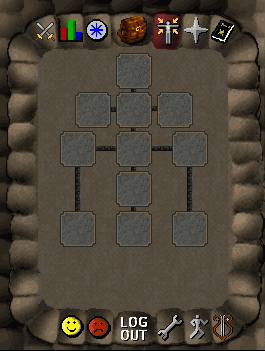
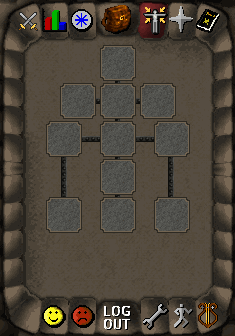
feat: update equipment interface to 244

diff --git a/js/equipment_interface.js b/js/equipment_interface.js
@@ -19,17 +19,17 @@ const EQUIPMENT_SLOTS = {
 };
 
 const SLOT_POSITIONS = {
-    'head': { x: 116, y: 52 },
-    'cape': { x: 75, y: 92 },
-    'neck': { x: 116, y: 92 },
-    'weapon': { x: 61, y: 132 },
-    'body': { x: 116, y: 132 },
-    'shield': { x: 172, y: 132 },
-    'legs': { x: 116, y: 172 },
-    'gloves': { x: 61, y: 212 },
-    'boots': { x: 116, y: 212 },
-    'ring': { x: 172, y: 212 },
-    'quiver': { x: 157, y: 92 }
+    'head': { x: 105, y: 48 },
+    'cape': { x: 63, y: 87 },
+    'neck': { x: 105, y: 87 },
+    'weapon': { x: 49, y: 127 },
+    'body': { x: 105, y: 127 },
+    'shield': { x: 161, y: 127 },
+    'legs': { x: 105, y: 167 },
+    'gloves': { x: 49, y: 206 },
+    'boots': { x: 105, y: 206 },
+    'ring': { x: 161, y: 206 },
+    'quiver': { x: 147, y: 87 }
 };
 
 function loadEquipInterface(targetDiv, allowChange, headItem, capeItem, neckItem, weaponItem, bodyItem, shieldItem, legsItem, glovesItem, bootsItem, ringItem, quiverItem) {
